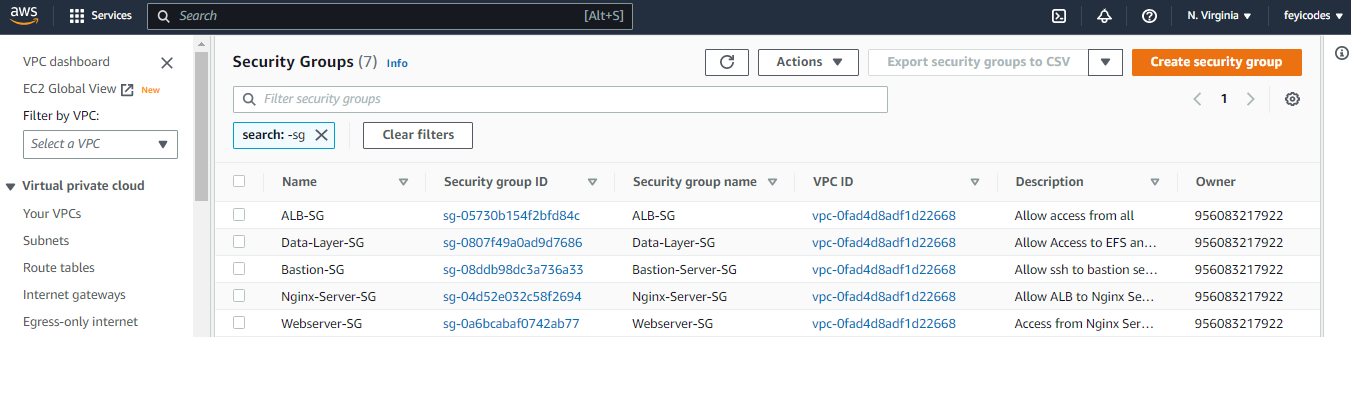
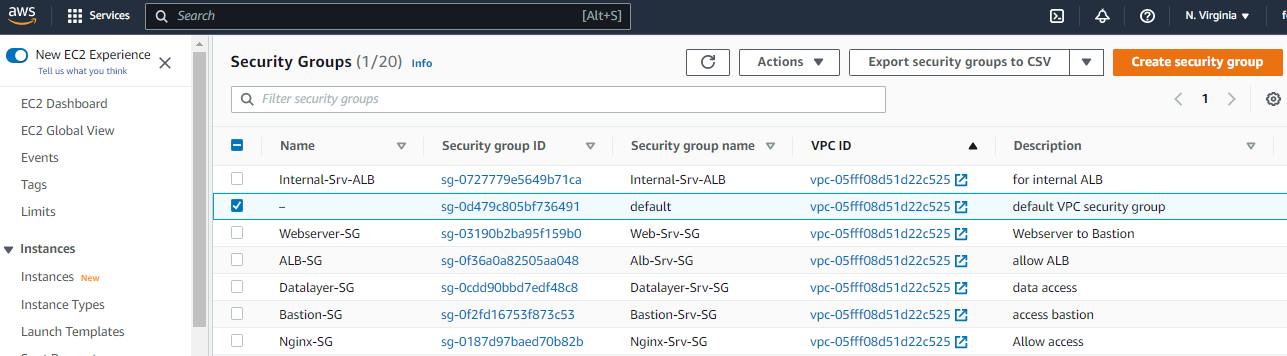
updated

diff --git a/project15.md b/project15.md
@@ -37,12 +37,13 @@ I created 3 elastic IPs, assigned one to the Nat Gateway and the other are to be
 
 
 
-I created 5 security groups catering for various infrastructure categories:
- * Nginx Servers
- * Bastion Servers
- * Application Load Balancer
- * Web servers
- * Data Layer.
+I created 5 security groups catering for various infrastructure categories with the following characteristics:
+ * Nginx Servers- Http/Https access from Application Load Balancer (External) security group and SSH access from Bastion security group.
+ * Bastion Servers- SSH access from my IP
+ * Application Load Balancer (Internal)- Http/Https access from NGINX security group
+ * Application Load Balancer (External)- Http/Https access to all incoming traffic.
+ * Web servers- Http/Https access from Application Load Balancer (Internal) security group and SSH access from Bastion security group.
+ * Data Layer- Mysql/NFS access from NGINX security group and Mysql access from Bastion Server.
 
 ![](images/img12.png)
 
@@ -98,10 +99,22 @@ I configured the self signed certificate for the nginx instance:
 
     sudo openssl dhparam -out /etc/ssl/certs/dhparam.pem 2048
 ```
+ 
+I configured the self signed certificate for apache for the webservers, given that they would be used to host them using the following codes:
+```
+    yum install -y mod_ssl
 
+    openssl req -newkey rsa:2048 -nodes -keyout /etc/pki/tls/private/ACS.key -x509 -days 365 -out /etc/pki/tls/certs/ACS.crt
 
+    vi /etc/httpd/conf.d/ssl.conf
+```
 
+After completing the configuration of the 3 instances, I created their images as template for usage hereafter.
 
+![](images/img14.png)
 
+I create trget groups for all parts of the architecture behind a load balancer. The load balancer forwards traffic to target groups. The target groups created cater for nginx server, webservers and tooling servers. 
+
+![](images/img15.png)
 
 
